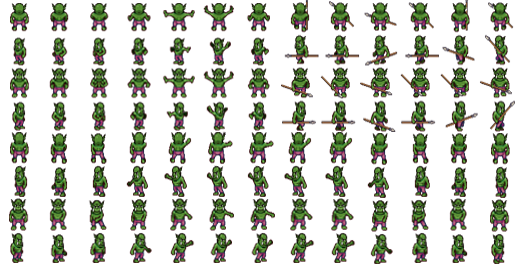
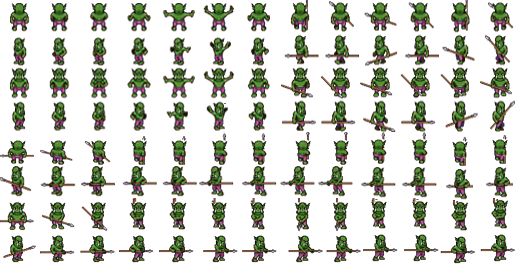
edited characters png for better animation. added level3.json with design tiles for trial gameplay. will edit it later for more effects and platforms edited client-socket-event-listeners.js to load level3.json

Changed region(s): [[0.0, 0.4848, 1.0, 1.0]]

diff --git a/public/src/scenes.js b/public/src/scenes.js
@@ -69,6 +69,38 @@ Q.scene("level2",function(stage) {
 	insertAllActors(stage);
 });
 
+// ## Level3 scene
+// Create a new scene called level 3
+Q.scene("level3",function(stage) {
+
+	// Add in a repeater for a little parallax action
+	stage.insert(new Q.Repeater({ asset: "background-wall.png", speedX: 0.5, speedY: 0.5 }));
+
+		// Add in a tile layer, and make it the collision layer
+		stage.collisionLayer(new Q.TileLayer({
+		                     dataAsset: 'level3.json',
+		                     sheet:     'map_tiles' }));
+
+
+		player = Q.stage().insert(new Q.Player({
+		playerId: selfId
+	}));
+
+	// Give the stage a moveable viewport and tell it
+	// to follow the player.
+	Q.stage().add("viewport").follow(player);
+
+	// Add in a couple of enemies
+	stage.insert(new Q.Enemy({ x: 700, y: 0 }));
+	stage.insert(new Q.Enemy({ x: 800, y: 0 }));
+
+	// Finally add in the tower goal
+	stage.insert(new Q.Tower({ x: 180, y: 50 }));
+
+	// Insert all actors
+	insertAllActors(stage);
+});
+
 // To display a game over / game won popup box, 
 // create a endGame scene that takes in a `label` option
 // to control the displayed message.
@@ -85,7 +117,7 @@ Q.scene('endGame',function(stage) {
   // and restart the game.
   button.on("click",function() {
     Q.clearStages();
-    Q.stageScene('level2');
+    Q.stageScene('level3');
   });
 
   // Expand the container to visibily fit it's contents

diff --git a/public/src/elemental-frenzy.js b/public/src/elemental-frenzy.js
@@ -66,15 +66,17 @@ require(['src/scenes']);
 // Q.load can be called at any time to load additional assets
 // assets that are already loaded will be skipped
 // The callback will be triggered when everything is loaded
-Q.load("npcs.png, npcs.json, level1.json, level2.json, tiles.png, background-wall.png,\
+Q.load("npcs.png, npcs.json, level1.json, level2.json, tiles.png, background-wall.png, level3.json, \
 	elemental_balls.png, elemental_balls.json, \
     character_earth.png, character_earth.json, \
     character_lightning.png, character_lightning.json, \
     character_water.png, character_water.json, \
-    character_fire.png, character_fire.json", function() {
+    character_fire.png, character_fire.json, \
+    map_tiles.png", function() {
 
   // Sprites sheets can be created manually
   Q.sheet("tiles","tiles.png", { tilew: 32, tileh: 32 });
+  Q.sheet("map_tiles", "map_tiles.png", { tilew: 32, tileh: 32 });
   // Or from a .json asset that defines sprite locations
   Q.compileSheets("character_earth.png", "character_earth.json");
   Q.compileSheets("character_lightning.png", "character_lightning.json");

diff --git a/public/src/eleballs.js b/public/src/eleballs.js
@@ -14,7 +14,7 @@ var ELEBALL_ELEMENT_WATER = 3;
 var ELEBALL_ELEMENTNAMES = ["element_fire", "element_earth", "element_lightning", "element_water"];
 // TODO Change the sound files once they are ready
 var ELEBALL_ELEMENTSOUNDS = ["fireBall.ogg", "earthBall.ogg", "lightningBall.ogg", "waterBall.ogg"];
-var ELEBALL_DEFAULT_ELEMENT = 0; // water
+var ELEBALL_DEFAULT_ELEMENT = 0; // fire
 var ELEBALL_FRAME = 0; // always take the first frame
 var ELEBALL_BOUNDINGBOX_SF = 0.5;
 var ELEBALL_ANIMATION = "eleball";

diff --git a/public/src/client-socket-event-listeners.js b/public/src/client-socket-event-listeners.js
@@ -9,7 +9,7 @@ socket.on('connected', function(data1) {
 	selfId = data1.playerId;
 	console.log("Connected to server as player " + selfId);
 	
-	Q.stageScene('level2');
+	Q.stageScene('level3');
 	
 	// ## Event listeners for data received from server
 	socket.on('insert_object', function(data) {
